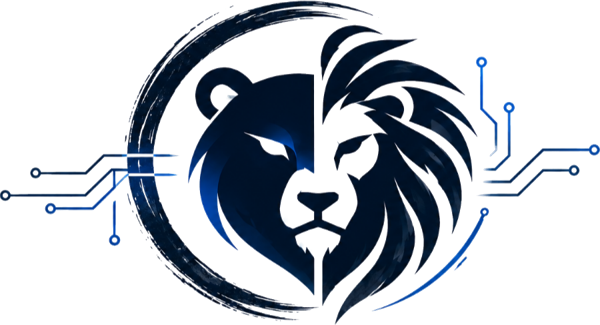
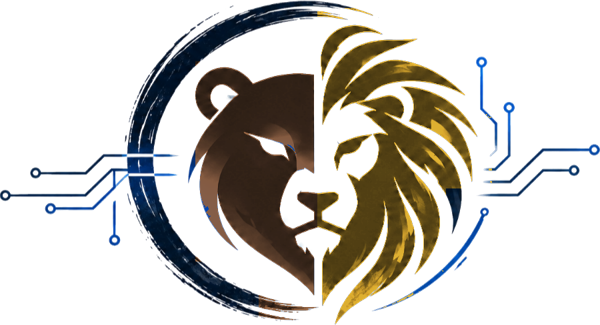
Urso marrom e leão dourado, cores de leitura confortável e técnicas de atenção
Claude-Session: https://claude.ai/code/session_015QtkNjNMp8GExQSNYCFQ3K

diff --git a/index.html b/index.html
@@ -16,13 +16,13 @@
    LAYOUT: hero, dor, Arktos|Leon em duas metades, produtos, métricas em abas, passos, segmentos, dúvidas, contato.
 */
 :root{color-scheme:light dark;
---bg:light-dark(#ffffff,#0a1226);--soft:light-dark(#f2f5fb,#111b35);--card:light-dark(#ffffff,#14213f);
---ink:light-dark(#0b1a3a,#eef2fb);--mute:light-dark(#4a5878,#a9b4cf);--line:light-dark(#dfe5f1,#24335a);
+--bg:light-dark(#f6f5f1,#0c1224);--soft:light-dark(#ecebe5,#121a33);--card:light-dark(#ffffff,#14213f);
+--ink:light-dark(#0b1a3a,#eef2fb);--mute:light-dark(#38425c,#b9c3dc);--line:light-dark(#dcdad2,#26355c);--brown:#8a5a34;--gold:#e0ad2e;--gold2:light-dark(#9a6f0e,#e8bc4f);
 --navy:#0b1a3a;--blue:#1d4ed8;--blue2:light-dark(#1d4ed8,#6f97ff);--ok:#16a34a}
 :root[data-theme=light]{color-scheme:light}:root[data-theme=dark]{color-scheme:dark}
 *{box-sizing:border-box;min-width:0}
 html{scroll-behavior:smooth;scroll-padding-top:72px}
-body{margin:0;background:var(--bg);color:var(--ink);font:16px/1.6 Inter,system-ui,sans-serif;overflow-x:clip}
+body{margin:0;background:var(--bg);color:var(--ink);font:17px/1.65 Inter,system-ui,sans-serif;overflow-x:clip}
 h1,h2,h3{font-family:Montserrat,Inter,sans-serif;line-height:1.08;text-wrap:balance;margin:0}
 h1{font-size:clamp(34px,5vw,52px);font-weight:800}
 h2{font-size:clamp(28px,3.6vw,40px);font-weight:800}
@@ -31,7 +31,7 @@ p{margin:0}
 a{color:inherit}
 .wrap{max-width:1240px;margin:0 auto}
 .band{padding:clamp(48px,7vw,96px) max(5vw,16px)}
-.lead{font-size:17px;color:var(--mute);max-width:62ch;margin-top:14px}
+.lead{font-size:18px;color:var(--mute);max-width:62ch;margin-top:14px}
 .btn{display:inline-flex;align-items:center;justify-content:center;gap:8px;min-height:48px;padding:0 22px;border-radius:12px;font:600 16px Inter,sans-serif;text-decoration:none;border:2px solid transparent;cursor:pointer}
 .btn.pri{background:var(--blue);color:#fff}.btn.pri:hover{background:#1a43bb}
 .btn.sec{border-color:var(--line);color:var(--ink);background:transparent}.btn.sec:hover{border-color:var(--blue2)}
@@ -78,18 +78,18 @@ header{position:sticky;top:0;z-index:20;background:color-mix(in srgb,var(--bg) 9
 .grid4{display:grid;grid-template-columns:repeat(auto-fit,minmax(min(100%,230px),1fr));gap:16px;margin-top:36px}
 .pc{background:var(--card);border:1px solid var(--line);border-radius:16px;padding:22px}
 .pc .ic{width:42px;height:42px;border-radius:12px;background:color-mix(in srgb,var(--blue) 14%,transparent);color:var(--blue2);display:grid;place-items:center;margin-bottom:14px}
-.pc p{color:var(--mute);margin-top:8px;font-size:15px}
+.pc p{color:var(--mute);margin-top:8px;font-size:16px}.pc p b,.pd p b,.mi p b,details p b{color:var(--ink);font-weight:600}
 
 /* arktos | leon */
 .duo{display:grid;grid-template-columns:1fr 1fr;position:relative;color:#fff}
 .duo>div{padding:clamp(48px,7vw,96px) max(5vw,16px)}
-.duo .ak{background:var(--navy);padding-right:clamp(70px,9vw,130px)}
-.duo .ln{background:var(--blue);padding-left:clamp(70px,9vw,130px)}
-.duo .k{font:700 52px/1 serif;opacity:.25;display:block;margin-bottom:6px}
+.duo .ak{background:linear-gradient(180deg,#0b1a3a,#14182b);border-bottom:6px solid var(--brown);padding-right:clamp(70px,9vw,130px)}
+.duo .ln{background:var(--blue);border-bottom:6px solid var(--gold);padding-left:clamp(70px,9vw,130px)}
+.duo .k{font:700 52px/1 serif;display:block;margin-bottom:6px}.ak .k{color:#c08a5c}.ln .k{color:var(--gold)}.ak h2 small{color:#e3bf9c;opacity:1}.ln h2 small{color:#ffe08a;opacity:1}
 .duo h2{color:#fff}.duo h2 small{display:block;font:600 16px Inter,sans-serif;opacity:.8;margin-top:8px}
 .duo p{opacity:.9;margin-top:14px;max-width:46ch}
 .duo ul{margin:18px 0 0;padding:0;list-style:none;display:grid;gap:10px}
-.duo li{padding-left:28px;position:relative}.duo li::before{content:"";position:absolute;left:0;top:.45em;width:14px;height:14px;border-radius:4px;background:rgba(255,255,255,.3)}
+.duo li{padding-left:28px;position:relative}.duo li::before{content:"";position:absolute;left:0;top:.45em;width:14px;height:14px;border-radius:4px;background:rgba(255,255,255,.3)}.ak li::before{background:#b07a4c}.ln li::before{background:var(--gold)}
 .seal{position:absolute;left:50%;top:calc(50% - 30px);transform:translate(-50%,-50%);width:clamp(110px,13vw,168px);aspect-ratio:1;border-radius:50%;background:#fff;display:grid;place-items:center;box-shadow:0 20px 40px -10px rgba(0,0,0,.45);overflow:hidden}
 .seal img{width:165%;margin-left:-9%}
 .duo .duo-note{max-width:none;margin:0;grid-column:1/-1;background:var(--navy);text-align:center;padding:0 16px 40px;font-weight:600}
@@ -98,11 +98,11 @@ header{position:sticky;top:0;z-index:20;background:color-mix(in srgb,var(--bg) 9
 /* produtos */
 .prods{display:grid;grid-template-columns:repeat(3,minmax(0,1fr));gap:18px;margin-top:40px}
 .pd{border:1px solid var(--line);border-radius:18px;padding:24px;background:var(--card);display:flex;flex-direction:column;gap:10px}
-.pd p{color:var(--mute);font-size:15px}
-.pd .ex{margin-top:auto;padding-top:12px;border-top:1px dashed var(--line);font-size:14px;color:var(--ink)}
+.pd p{color:var(--mute);font-size:16px}.pd .pi{width:48px;height:48px;border-radius:14px;display:grid;place-items:center;background:color-mix(in srgb,var(--blue) 12%,var(--card));color:var(--blue2)}.pd.star .pi{background:rgba(255,255,255,.1);color:#9db7ff}
+.pd .ex{margin-top:auto;padding:12px 0 0 28px;border-top:1px solid var(--line);font-size:15px;color:var(--ink);font-weight:600;position:relative}.pd .ex::before{content:"→";position:absolute;left:2px;top:11px;color:var(--gold2);font-weight:800}
 .pd .ex b{color:var(--blue2)}
 .pd.star{grid-column:span 2;grid-row:span 2;background:var(--navy);color:#fff;border:0;padding:clamp(24px,3vw,40px)}
-.pd.star p,.pd.star li{color:#c9d4ee}.pd.star h3{font-size:clamp(24px,2.6vw,32px)}
+.pd.star p,.pd.star li{color:#c9d4ee}.pd.star p b{color:#fff}.pd.star h3{font-size:clamp(24px,2.6vw,32px)}
 .pd.star .tag{align-self:flex-start;background:var(--blue);color:#fff;font-size:13px;font-weight:600;padding:5px 12px;border-radius:99px}
 .pd.star ul{margin:6px 0 0;padding:0;list-style:none;display:grid;grid-template-columns:1fr 1fr;gap:10px 20px}
 .pd.star li::before{content:"✓ ";color:#7fa2ff;font-weight:700}
@@ -116,7 +116,7 @@ header{position:sticky;top:0;z-index:20;background:color-mix(in srgb,var(--bg) 9
 .mgrid{display:grid;grid-template-columns:minmax(0,1.3fr) minmax(0,1fr);gap:24px;margin-top:22px;align-items:start}
 .mlist{display:grid;grid-template-columns:repeat(auto-fill,minmax(min(100%,250px),1fr));gap:12px}
 .mi{background:var(--card);border:1px solid var(--line);border-radius:14px;padding:16px}
-.mi h3{font-size:16px}.mi p{font-size:14px;color:var(--mute);margin-top:6px}
+.mi h3{font-size:16px}.mi p{font-size:15px;color:var(--mute);margin-top:6px}
 .dash{background:var(--navy);color:#fff;border-radius:20px;padding:22px;position:sticky;top:90px}
 .dash h3{font-size:16px}.dash .sub{font-size:13px;color:#a9b8de;margin-top:2px}
 .kpis{display:grid;grid-template-columns:1fr 1fr;gap:10px;margin-top:16px}
@@ -135,7 +135,7 @@ header{position:sticky;top:0;z-index:20;background:color-mix(in srgb,var(--bg) 9
 .st::before{counter-increment:s;content:counter(s);position:absolute;top:0;left:0;width:44px;height:44px;border-radius:50%;background:var(--blue);color:#fff;display:grid;place-items:center;font:800 18px Montserrat,sans-serif}
 .st::after{content:"";position:absolute;top:22px;left:56px;right:-6px;height:2px;background:var(--line)}
 .st:last-child::after{display:none}
-.st p{color:var(--mute);font-size:15px;margin-top:8px}
+.st p{color:var(--mute);font-size:16px;margin-top:8px}
 .st small{display:inline-block;margin-top:10px;font-size:13px;font-weight:600;color:var(--blue2)}
 
 /* segmentos + faq */
@@ -156,6 +156,7 @@ details p{color:var(--mute);padding:0 0 20px}
 form{background:#fff;color:#0b1a3a;border-radius:20px;padding:clamp(20px,3vw,32px);display:grid;gap:14px}
 label{font-weight:600;font-size:14px;display:grid;gap:6px}
 input,select{font:16px Inter,sans-serif;min-height:48px;padding:0 14px;border:1px solid #cfd8ea;border-radius:10px;color:#0b1a3a;background:#fff;width:100%}
+.arrow{display:flex;align-items:center;gap:12px;margin-top:26px;color:#ffe08a;font-weight:600}.arrow svg{flex:none}@media(max-width:760px){.arrow svg{transform:rotate(90deg)}}
 .fmsg{font-size:14px;color:#4a5878;min-height:1.4em}
 footer{background:#070f24;color:#a9b4cf;padding:36px max(5vw,16px);font-size:14px}
 footer .wrap{display:flex;flex-wrap:wrap;gap:16px 30px;align-items:center;justify-content:space-between}
@@ -236,15 +237,15 @@ footer .kj{font:700 26px serif;color:#fff;letter-spacing:.2em}
 <h2>Produtos que trabalham por você</h2>
 <p class="lead">Você escolhe por onde começar. Tudo se conecta e cresce junto com o seu negócio.</p>
 <div class="prods">
-<article class="pd star"><span class="tag">Carro-chefe</span><h3>Recepção 24h no WhatsApp</h3>
-<p>Uma recepcionista que nunca tira folga. Ela conversa com educação, no jeito do seu negócio, e resolve a maior parte dos atendimentos sozinha.</p>
+<article class="pd star"><span class="pi"><svg width="26" height="26" viewBox="0 0 24 24" fill="none" stroke="currentColor" stroke-width="2" stroke-linecap="round" stroke-linejoin="round" aria-hidden="true"><path d="M21 12a8 8 0 0 1-11.6 7.1L4 20l1-4.6A8 8 0 1 1 21 12z"/><path d="M8.5 11h.01M12 11h.01M15.5 11h.01"/></svg></span><span class="tag">Carro-chefe</span><h3>Recepção 24h no WhatsApp</h3>
+<p>Uma recepcionista que <b>nunca tira folga</b>. Ela conversa com educação, no jeito do seu negócio, e resolve a maior parte dos atendimentos sozinha.</p>
 <ul><li>Responde na hora, de dia e de madrugada</li><li>Tira dúvidas sobre preços e serviços</li><li>Marca, remarca e cancela horários</li><li>Manda localização e formas de pagamento</li><li>Entende áudio e mensagens com erro de digitação</li><li>Passa para você quando o assunto pede uma pessoa</li></ul>
-<p class="ex"><b>Na prática:</b> o cliente manda “tem horário amanhã?” às 23h e já sai da conversa com o horário marcado.</p></article>
-<article class="pd"><h3>Lembrete e confirmação</h3><p>Um dia antes, o cliente recebe um lembrete e confirma com um toque. Se não puder vir, a vaga já fica livre para outro.</p><p class="ex"><b>Na prática:</b> menos cadeira vazia e menos tempo ligando para confirmar.</p></article>
-<article class="pd"><h3>Recepção digital</h3><p>Um tablet no balcão onde o cliente faz o próprio check-in, preenche a ficha e avisa que chegou.</p><p class="ex"><b>Na prática:</b> sua equipe para de digitar ficha e foca em atender.</p></article>
-<article class="pd"><h3>Painel de métricas</h3><p>Os números mais importantes do seu negócio em uma tela simples, no celular ou no computador.</p><p class="ex"><b>Na prática:</b> você sabe quanto atendeu e quanto deixou de ganhar, sem planilha.</p></article>
-<article class="pd"><h3>Volta de clientes sumidos</h3><p>Identifica quem não aparece há um tempo e manda uma mensagem gentil, com convite ou condição especial.</p><p class="ex"><b>Na prática:</b> clientes antigos voltam a marcar sem você lembrar de ninguém.</p></article>
-<article class="pd"><h3>Pesquisa de satisfação</h3><p>Depois do atendimento, pergunta como foi e convida os clientes satisfeitos a deixarem avaliação no Google.</p><p class="ex"><b>Na prática:</b> mais estrelas no Google e você descobre o que melhorar.</p></article>
+<p class="ex">Cliente manda “tem horário amanhã?” às 23h e sai da conversa com o horário marcado.</p></article>
+<article class="pd"><span class="pi"><svg width="26" height="26" viewBox="0 0 24 24" fill="none" stroke="currentColor" stroke-width="2" stroke-linecap="round" stroke-linejoin="round" aria-hidden="true"><path d="M6 8a6 6 0 1 1 12 0c0 7 3 8 3 8H3s3-1 3-8"/><path d="M10 20a2 2 0 0 0 4 0"/></svg></span><h3>Lembrete e confirmação</h3><p>Um dia antes, o cliente recebe um lembrete e <b>confirma com um toque</b>. Se não puder vir, a vaga fica livre para outro.</p><p class="ex">Menos cadeira vazia, menos tempo no telefone.</p></article>
+<article class="pd"><span class="pi"><svg width="26" height="26" viewBox="0 0 24 24" fill="none" stroke="currentColor" stroke-width="2" stroke-linecap="round" stroke-linejoin="round" aria-hidden="true"><rect x="4" y="3" width="16" height="18" rx="2"/><path d="M9 8h6M9 12h6M11 17h2"/></svg></span><h3>Recepção digital</h3><p>Um tablet no balcão onde o cliente <b>faz o próprio check-in</b>, preenche a ficha e avisa que chegou.</p><p class="ex">Sua equipe para de digitar ficha e foca em atender.</p></article>
+<article class="pd"><span class="pi"><svg width="26" height="26" viewBox="0 0 24 24" fill="none" stroke="currentColor" stroke-width="2" stroke-linecap="round" stroke-linejoin="round" aria-hidden="true"><path d="M4 20V10M10 20V4M16 20v-7M22 20H2"/></svg></span><h3>Painel de métricas</h3><p>Os números mais importantes do seu negócio <b>em uma tela simples</b>, no celular ou no computador.</p><p class="ex">Você sabe quanto atendeu e quanto deixou de ganhar.</p></article>
+<article class="pd"><span class="pi"><svg width="26" height="26" viewBox="0 0 24 24" fill="none" stroke="currentColor" stroke-width="2" stroke-linecap="round" stroke-linejoin="round" aria-hidden="true"><path d="M3 12a9 9 0 1 0 3-6.7L3 8"/><path d="M3 3v5h5"/></svg></span><h3>Volta de clientes sumidos</h3><p>Descobre quem não aparece há um tempo e manda <b>uma mensagem gentil</b>, com convite ou condição especial.</p><p class="ex">Clientes antigos voltam a marcar sozinhos.</p></article>
+<article class="pd"><span class="pi"><svg width="26" height="26" viewBox="0 0 24 24" fill="none" stroke="currentColor" stroke-width="2" stroke-linecap="round" stroke-linejoin="round" aria-hidden="true"><path d="m12 3 2.8 5.8 6.2.9-4.5 4.4 1 6.2L12 17.4 6.5 20.3l1-6.2L3 9.7l6.2-.9z"/></svg></span><h3>Pesquisa de satisfação</h3><p>Depois do atendimento, pergunta como foi e convida quem gostou a <b>avaliar no Google</b>.</p><p class="ex">Mais estrelas no Google e ideias do que melhorar.</p></article>
 </div>
 </div></section>
 
@@ -289,7 +290,7 @@ footer .kj{font:700 26px serif;color:#fff;letter-spacing:.2em}
 
 <section id="contato" class="band final"><div class="wrap">
 <div><h2>Veja a assistente funcionando com o seu negócio.</h2>
-<p class="lead">Preencha ao lado e o Leon chama você no WhatsApp para marcar uma demonstração gratuita, sem compromisso.</p></div>
+<p class="lead">Preencha o formulário e o Leon chama você no WhatsApp para marcar uma demonstração gratuita, sem compromisso.</p><p class="arrow"><svg width="40" height="20" viewBox="0 0 40 20" fill="none" stroke="currentColor" stroke-width="2.5" stroke-linecap="round" aria-hidden="true"><path d="M2 10h34M28 3l8 7-8 7"/></svg>Leva menos de 1 minuto</p></div>
 <form id="form" novalidate>
 <label>Seu nome<input id="f-nome" autocomplete="name" required></label>
 <label>Nome do seu negócio<input id="f-neg" required></label>
@@ -302,7 +303,7 @@ footer .kj{font:700 26px serif;color:#fff;letter-spacing:.2em}
 </main>
 
 <footer><div class="wrap">
-<span class="kj" aria-hidden="true">熊獅</span>
+<span class="kj" aria-hidden="true"><span style="color:#c08a5c">熊</span><span style="color:#e0ad2e">獅</span></span>
 <span><b style="color:#fff">ARKTOS LEON</b> · Automações com IA</span>
 <span>São Paulo, SP · <a href="privacidade.html">Política de Privacidade</a> · <a href="termos.html">Termos de Uso</a></span>
 <span>© <span id="ano">2026</span> Arktos Leon. Todos os direitos reservados.</span>
@@ -326,10 +327,10 @@ cal:'<rect x="3" y="5" width="18" height="16" rx="2"/><path d="M3 10h18M8 3v4M16
 user:'<circle cx="12" cy="8" r="4"/><path d="M4 21c0-4 4-6 8-6s8 2 8 6"/>',
 eye:'<path d="M2 12s4-7 10-7 10 7 10 7-4 7-10 7S2 12 2 12z"/><circle cx="12" cy="12" r="3"/>'};
 const pain=[
-['moon','Mensagens chegam fora do horário','À noite e no fim de semana o cliente pergunta e ninguém responde. No outro dia, ele já marcou em outro lugar.'],
-['cal','Cliente marca e não aparece','Horário vazio é dinheiro perdido, e confirmar um por um no telefone toma a manhã inteira.'],
-['user','A recepção vive sobrecarregada','A mesma pessoa atende telefone, WhatsApp e quem está no balcão. Alguém sempre fica esperando.'],
-['eye','Você não sabe seus números','Quantos clientes perguntaram e não marcaram? Quem sumiu? Sem isso, fica difícil decidir.']];
+['moon','Mensagens chegam fora do horário','À noite e no fim de semana o cliente pergunta e <b>ninguém responde</b>. No outro dia, ele já marcou em outro lugar.'],
+['cal','Cliente marca e não aparece','<b>Horário vazio é dinheiro perdido</b>, e confirmar um por um no telefone toma a manhã inteira.'],
+['user','A recepção vive sobrecarregada','A mesma pessoa atende telefone, WhatsApp e quem está no balcão. <b>Alguém sempre fica esperando</b>.'],
+['eye','Você não sabe seus números','Quantos clientes perguntaram e não marcaram? Quem sumiu? <b>Sem isso, fica difícil decidir</b>.']];
 document.getElementById('pain').innerHTML=pain.map(p=>`<div class="pc"><span class="ic"><svg width="22" height="22" viewBox="0 0 24 24" fill="none" stroke="currentColor" stroke-width="2" stroke-linecap="round" stroke-linejoin="round">${ic[p[0]]}</svg></span><h3>${p[1]}</h3><p>${p[2]}</p></div>`).join('');
 
 const M={
